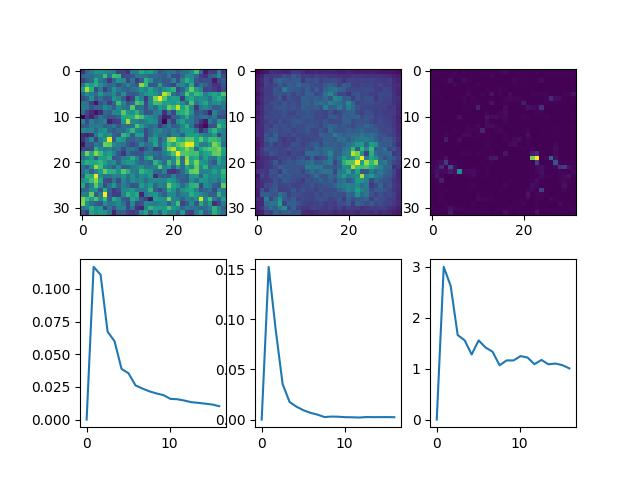
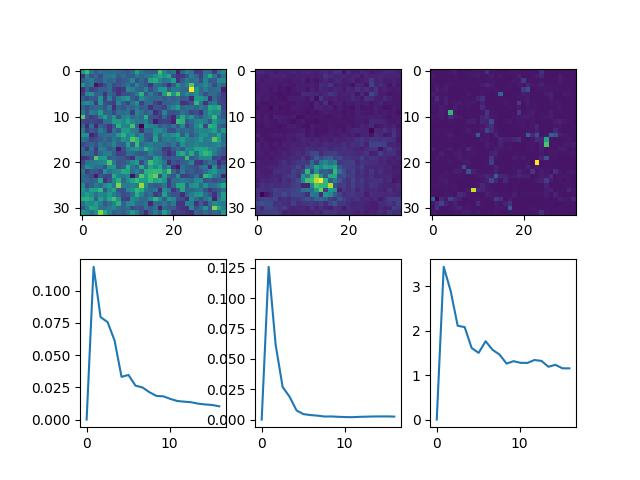
periodic padding for conv

diff --git a/src/nn/UNet.py b/src/nn/UNet.py
@@ -9,17 +9,34 @@ class DoubleConv(eqx.Module):
     activation : Callable
 
     def __init__(
-        self, 
-        num_spatial_dims: int,
-        in_channels: int,
-        out_channels: int,
-        activation: Callable,
-        padding: str,
-        key
-    ):
+            self, 
+            num_spatial_dims: int,
+            in_channels: int,
+            out_channels: int,
+            activation: Callable,
+            padding : str,
+            padding_mode: str,
+            key):
+        
         key1, key2 = jax.random.split(key)
-        self.conv_1 = eqx.nn.Conv(num_spatial_dims, in_channels, out_channels, kernel_size=3, padding=padding, key=key1)
-        self.conv_2 = eqx.nn.Conv(num_spatial_dims, out_channels, out_channels, kernel_size=3, padding=padding, key=key2)
+        self.conv_1 = eqx.nn.Conv(
+            num_spatial_dims, 
+            in_channels, 
+            out_channels, 
+            kernel_size=3, 
+            padding=padding,
+            padding_mode=padding_mode, 
+            key=key1)
+        
+        self.conv_2 = eqx.nn.Conv(
+            num_spatial_dims, 
+            out_channels, 
+            out_channels, 
+            kernel_size=3, 
+            padding=padding,
+            padding_mode=padding_mode, 
+            key=key2)
+        
         self.activation = activation
         
     def __call__(self, x):
@@ -38,15 +55,16 @@ class UNet(eqx.Module):
     projection : eqx.nn.Conv
 
     def __init__(
-        self,
-        num_spatial_dims: int,
-        in_channels: int,
-        out_channels: int,
-        hidden_channels: int,
-        num_levels: int,
-        activation: Callable,
-        padding: str,
-        key):
+            self,
+            num_spatial_dims: int,
+            in_channels: int,
+            out_channels: int,
+            hidden_channels: int,
+            num_levels: int,
+            activation: Callable,
+            padding: str,
+            padding_mode: str,
+            key):
 
         key, key_liftiing, key_projection = jax.random.split(key, 3)
 
@@ -56,6 +74,7 @@ class UNet(eqx.Module):
             hidden_channels,
             activation,
             padding,
+            padding_mode,
             key_liftiing
         )
 
@@ -65,6 +84,7 @@ class UNet(eqx.Module):
             out_channels,
             kernel_size=1,
             padding=padding,
+            padding_mode=padding_mode,
             key=key_projection
         )
 
@@ -87,6 +107,7 @@ class UNet(eqx.Module):
                     kernel_size=3,
                     stride=2,
                     padding=padding,
+                    padding_mode=padding_mode,
                     key=key_down
                 )
             )
@@ -98,6 +119,7 @@ class UNet(eqx.Module):
                     lower_level_channels,
                     activation,
                     padding,
+                    padding_mode,
                     key_left
                 )
             )
@@ -109,6 +131,7 @@ class UNet(eqx.Module):
                     upper_level_channels,
                     activation,
                     padding,
+                    padding_mode,
                     key_right
                 )
             )
@@ -121,6 +144,7 @@ class UNet(eqx.Module):
                     kernel_size=3,
                     stride=2,
                     padding=padding,
+                    padding_mode=padding_mode,
                     key=key_up
                 )
             )

diff --git a/src/main.py b/src/main.py
@@ -9,7 +9,6 @@ import nvidia.dali.types as types
 from nvidia.dali.plugin.jax import DALIGenericIterator
 # Other
 import matplotlib.pyplot as plt
-import scienceplots
 # Local
 import nn
 import data
@@ -70,7 +69,8 @@ unet = nn.UNet(
     hidden_channels=8,
     num_levels=3,
     activation=jax.nn.relu,
-    padding='SAME',	
+    padding='SAME',
+    padding_mode='CIRCULAR',	
     key=init_rng)
 
 parameter_count = nn.count_parameters(unet)
